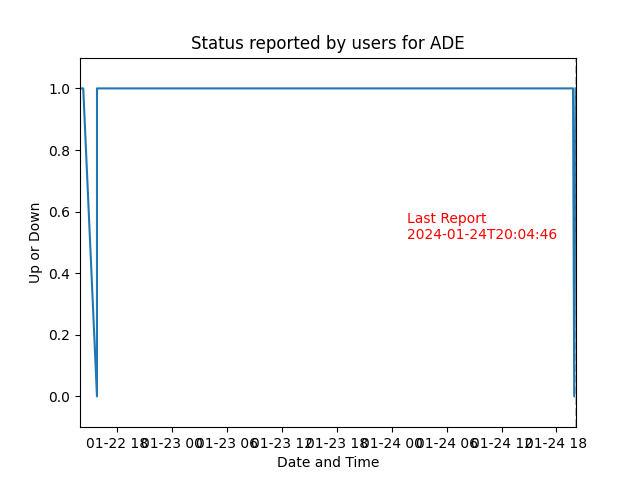
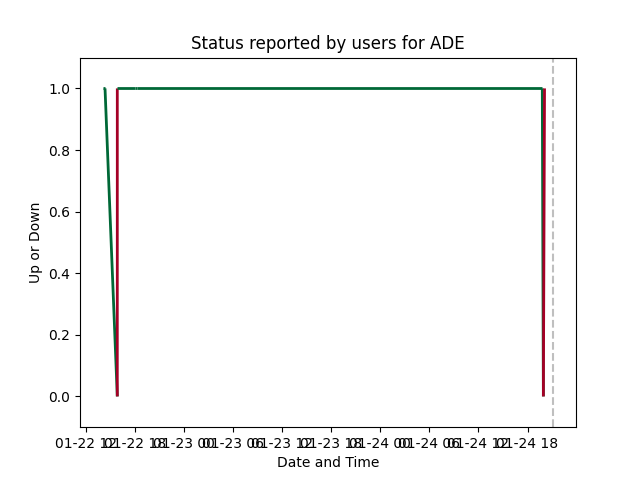
New graphic for outage tracking

Changed region(s): [[0.125, 0.1562, 0.9062, 0.8438], [0.4688, 0.9062, 0.9375, 0.9375], [0.0938, 0.9062, 0.4062, 0.9375]]

diff --git a/templates/serviceList.html b/templates/serviceList.html
@@ -31,9 +31,9 @@
             {% endif %}
             
             {% if serviceInfo["Status"] %}
-                <th id="up"> &nbsp;&nbsp;Up&nbsp;&nbsp; </th>
+                <th > <a href="/{{ serviceInfo["service"] }}"  id="up"> &nbsp;  Up &nbsp;  </a> </th>
             {% else %}
-                <th id="down"> Down</th>
+                <th > <a href="/{{ serviceInfo["service"] }}"  id="down"> Down </a> </th>
             {% endif %}
         </tr>
         {% endfor %}

diff --git a/dataReport.py b/dataReport.py
@@ -1,8 +1,10 @@
+from matplotlib.dates import date2num
 import jsonUtility
 import os
 from datetime import datetime, time
 import pytz # For timezone
 import matplotlib.pyplot as plt
+from matplotlib.collections import LineCollection
 import numpy as np
 
 from logger_config import *
@@ -36,9 +38,10 @@ def addBlankCSV():
 
 def plot(service, onlyOutageReport=False):
     if not onlyOutageReport:
-        logger.info("[LOG]: also plotting for user Report")
+        logger.info("[LOG]: only plotting for user Report")
         toPlot = dict(userReport = filepath + service + "/log.csv")
     else:
+        logger.info("[LOG]: only plotting for Report")
         toPlot = dict(outageReport = filepath + service + "/outageReport.csv")
     
     
@@ -70,9 +73,25 @@ def plot(service, onlyOutageReport=False):
             timeArray = data["date"]
             UPArray = data["UP"]
             
+            timeArray = date2num(timeArray)
+            
             timeNow = np.datetime64("now")
             
-            ax.plot(timeArray, UPArray)
+            points = np.array([timeArray, UPArray]).T.reshape(-1, 1, 2)
+            segments = np.concatenate([points[:-1], points[1:]], axis=1)
+            
+            norm = plt.Normalize(0,1)
+            lc = LineCollection(segments, cmap='RdYlGn', norm=norm)
+            
+            lc.set_array(UPArray)
+            lc.set_linewidth(2)
+            
+            ax.add_collection(lc)
+            #fig.colorbar(line, ax=axs[0])
+
+            ax.set_ylim(-0.1,1.1)
+            
+            #ax.plot(timeArray, UPArray)
             ax.axvline(x=timeNow, linestyle="--", color="gray", alpha=0.5)
             ax.set_ylim(-0.1,1.1)
             
@@ -80,8 +99,9 @@ def plot(service, onlyOutageReport=False):
             
             # To protect against unwanted behavior
             if timeArray.size > 2: 
-                ax.set_xlim(timeArray[0] - np.timedelta64(3, "m"), timeNow + np.timedelta64(3, "m"))
-                ax.text(timeNow - np.timedelta64((timeNow - timeArray[0]))*0.34 , 0.5, f"Last Report\n{timeNow}", **now_kwargs)
+                logger.info("[LOG]: temp fix")
+                #ax.set_xlim(timeArray[0] - np.timedelta64(3, "m"), timeNow + np.timedelta64(3, "m"))
+                #ax.text(timeNow - np.timedelta64((timeNow - timeArray[0]))*0.34 , 0.5, f"Last Report\n{timeNow}", **now_kwargs)
             else:
                 ax.text(timeNow, 0.5, f"Last Report\n{timeNow}", **now_kwargs)
             
@@ -91,6 +111,8 @@ def plot(service, onlyOutageReport=False):
                 ax.set_title(f"Past status for {service}")
             ax.set_ylabel("Up or Down")
             ax.set_xlabel("Date and Time")
+            
+        logger.info(f"[LOG]: PLOT --> service:{service} and report:{report}")
         if not onlyOutageReport:
             fig.savefig("static/img/log/" + service + ".png")
         else:
@@ -98,6 +120,8 @@ def plot(service, onlyOutageReport=False):
         
         # Important to avoid an ever increasing ram usage
         plt.close(fig) 
+        
+        logger.info("[LOG]: Finished plotting")
 
 def addReport(service, user_choice):
     """Function to add a new line to the logs of each service
@@ -121,7 +145,8 @@ def addReport(service, user_choice):
     with open(log, "a") as file:
         file.write(date + "," + UP + "\n")
     
-    plot(service) # To keep updated the graph         
+    # Was causing bugs
+    #plot(service) # To keep updated the graph         
         
         
 def dataExtraction():
@@ -184,11 +209,17 @@ def reportStatus(services, service):
         out.write(date + "," + str(UP) + "\n")
     
     logger.info("[LOG]: Finished Report")
-    logger.info("[LOG]: starting plot")
+    logger.info("[LOG]: starting plot for outage")
 
     
     plot(service, True)
-    logger.info("[LOG]: Finished plot")
+    logger.info("[LOG]: Finished plot for outage")
+    
+    logger.info("[LOG]: starting plot for user report")
+
+    
+    plot(service, False)
+    logger.info("[LOG]: Finished plot for user report")
 
 def archiveStatus():
     # We archive between 2 AM and 2 AM + time for a request
